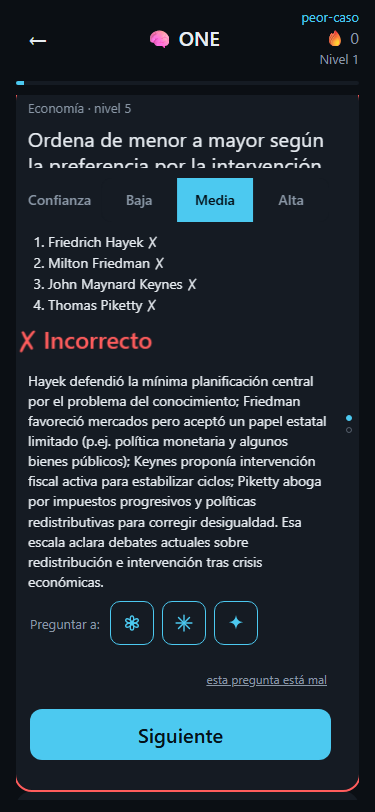
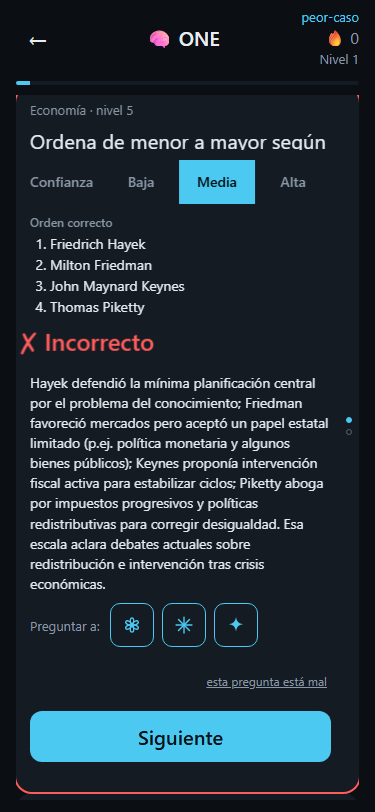
UI: ronda de corrección 1 de la Tarea 3 — jerarquía de cifras, orden correcto sin marcas confusas, botones apilados
- Tarjeta de cifras del resumen: Aciertos y XP como dos cifras destacadas
  (número grande + etiqueta pequeña debajo) en vez de dos líneas de texto
  planas; áreas con nombreArea() (nombres legibles) en vez de sus ids; todo
  centrado como un solo bloque.
- construirRespuestaCompacta (ordenar): rótulo "Orden correcto" encima de la
  lista; marca ✓/✗ por posición solo si el jugador acertó alguna, si falló
  las 4 se deja la lista limpia (marcar todo con ✗ sobre el propio orden
  correcto confundía, leía como si la lista estuviera mal). vf/test4/error
  sin cambios.
- Tarjeta final del resumen: "Otra partida"/"Inicio" apilados en vertical a
  ancho completo (antes en fila partían "Otra partida" en dos líneas).
- Docstring de construirTarjetaRespondida actualizado (ya no dice que el
  ancla "Preguntar a" la rellena otra tarea) y quitada la regla CSS muerta
  .preguntar-a:empty.

Claude-Session: https://claude.ai/code/session_01UVvhBTcCK6CYm6LEyJUvJk

diff --git a/app.js b/app.js
@@ -1360,7 +1360,11 @@ function construirTarjetaSinResponder(hueco) {
 
 /** Respuesta ya fija en su forma compacta (spec v0.1c §4.1 punto 4): vf una
  * línea; test4/error la fila correcta con ✓ y, si falló, la suya tachada
- * encima; ordenar la lista completa numerada con ✓/✗ por posición. */
+ * encima; ordenar la lista completa CORRECTA con un rótulo encima y ✓/✗ por
+ * posición SOLO si al menos una posición acertó (ronda de corrección 1: con
+ * TODO mal — p. ej. el orden invertido del todo — marcar cada línea con ✗
+ * sobre el propio orden correcto leía como "esto está mal", cuando es
+ * justo lo contrario; sin ninguna marca, el rótulo solo, se entiende). */
 function construirRespuestaCompacta(pregunta, hueco) {
   const contenedor = document.createElement('div');
   contenedor.className = 'respuesta-compacta';
@@ -1402,13 +1406,24 @@ function construirRespuestaCompacta(pregunta, hueco) {
       break;
     }
     case 'ordenar': {
+      const rotulo = document.createElement('p');
+      rotulo.className = 'respuesta-compacta-orden-rotulo';
+      rotulo.textContent = 'Orden correcto';
+      contenedor.appendChild(rotulo);
+
       const lista = document.createElement('ol');
       lista.className = 'respuesta-compacta-orden';
       const respuestaUsuario = Array.isArray(hueco.respuesta) ? hueco.respuesta : [];
+      // Si el jugador no acertó NI UNA posición, marcar cada línea con ✗ sobre
+      // el orden correcto confunde (lee como si la lista en sí estuviera mal).
+      // En ese caso se deja limpia, sin marcas: el rótulo de arriba ya dice
+      // que esto es lo correcto.
+      const algunaAcertada = respuestaUsuario.some((original, posicion) => original === posicion);
       pregunta.items.forEach((texto, posicion) => {
         const li = document.createElement('li');
-        const marca = respuestaUsuario[posicion] === posicion ? '✓' : '✗';
-        li.textContent = `${texto} ${marca}`;
+        li.textContent = algunaAcertada
+          ? `${texto} ${respuestaUsuario[posicion] === posicion ? '✓' : '✗'}`
+          : texto;
         lista.appendChild(li);
       });
       contenedor.appendChild(lista);
@@ -1665,11 +1680,11 @@ function construirBloqueFeedback(pregunta, hueco) {
 }
 
 /**
- * Tarjeta de un hueco ya respondido (spec v0.1c, interfaz para Task 3/repaso):
+ * Tarjeta de un hueco ya respondido (spec v0.1c, interfaz para el repaso):
  * cabecera, enunciado, confianza (activa, salvo soloLectura), respuesta
  * compacta + resumen a una línea (para tarjeta--compacta-1), feedback y, en la
- * zona de acción, el ancla "Preguntar a" (vacía: la rellena otra tarea) y,
- * salvo soloLectura, "esta pregunta está mal" + Siguiente.
+ * zona de acción, la fila "Preguntar a" (construirPreguntarA) y, salvo
+ * soloLectura, "esta pregunta está mal" + Siguiente.
  */
 function construirTarjetaRespondida(pregunta, hueco, { soloLectura = false } = {}) {
   const tarjeta = document.createElement('div');
@@ -1883,10 +1898,28 @@ function construirAccionesResumen() {
   return acciones;
 }
 
-/** Tarjeta 0 del resumen (spec v0.1c §6): cifras de la partida (aciertos, XP,
- * áreas) y, según haya o no algo que repasar, la pista de deslizar o el
+/** Una cifra destacada (spec v0.1c §6, ronda de corrección 1): número grande
+ * arriba, etiqueta pequeña debajo. `animarConteo` sigue animando solo el
+ * número (sin la etiqueta dentro del mismo texto, a diferencia de antes). */
+function construirCifraDestacada(etiquetaTexto) {
+  const cifra = document.createElement('div');
+  cifra.className = 'resumen-cifra';
+  const numero = document.createElement('p');
+  numero.className = 'resumen-cifra-numero';
+  const etiqueta = document.createElement('p');
+  etiqueta.className = 'resumen-cifra-etiqueta';
+  etiqueta.textContent = etiquetaTexto;
+  cifra.append(numero, etiqueta);
+  return { cifra, numero };
+}
+
+/** Tarjeta 0 del resumen (spec v0.1c §6): cifras de la partida (aciertos y XP
+ * como dos cifras destacadas, áreas en una línea pequeña con sus nombres
+ * legibles) y, según haya o no algo que repasar, la pista de deslizar o el
  * mensaje vacío con los botones directos (sin deslizar a ningún sitio, ya que
- * en ese caso esta es también la última tarjeta del mazo). */
+ * en ese caso esta es también la última tarjeta del mazo). Todo centrado como
+ * un solo bloque (ronda de corrección 1: antes eran dos líneas de texto
+ * planas, sin jerarquía, y las áreas salían con su id sin traducir). */
 function construirTarjetaCifras({ aciertos, totalPreguntas, xpTotal, areas }) {
   const tarjeta = document.createElement('div');
   tarjeta.className = 'tarjeta';
@@ -1897,15 +1930,14 @@ function construirTarjetaCifras({ aciertos, totalPreguntas, xpTotal, areas }) {
 
   const resultado = document.createElement('div');
   resultado.className = 'resumen-resultado';
-  const aciertosNodo = document.createElement('p');
-  aciertosNodo.className = 'resumen-resultado-linea';
-  const xpNodo = document.createElement('p');
-  xpNodo.className = 'resumen-resultado-linea';
-  resultado.append(aciertosNodo, xpNodo);
+  const { cifra: cifraAciertos, numero: numeroAciertos } = construirCifraDestacada('Aciertos');
+  const { cifra: cifraXp, numero: numeroXp } = construirCifraDestacada('XP ganado');
+  resultado.append(cifraAciertos, cifraXp);
 
   const areasNodo = document.createElement('p');
   areasNodo.className = 'resumen-areas-linea';
-  areasNodo.textContent = `Áreas: ${[...areas].join(', ') || '—'}`;
+  const nombresAreas = [...areas].map(nombreArea);
+  areasNodo.textContent = `Áreas: ${nombresAreas.join(', ') || '—'}`;
 
   const pieN = repasoPartida.length;
   const pie = document.createElement('p');
@@ -1922,8 +1954,8 @@ function construirTarjetaCifras({ aciertos, totalPreguntas, xpTotal, areas }) {
     tarjeta.appendChild(zonaAccion);
   }
 
-  animarConteo(aciertosNodo, 'Aciertos: ', aciertos, `/${totalPreguntas}`);
-  animarConteo(xpNodo, 'XP ganado: ', xpTotal);
+  animarConteo(numeroAciertos, '', aciertos, `/${totalPreguntas}`);
+  animarConteo(numeroXp, '', xpTotal);
 
   return tarjeta;
 }

diff --git a/estilos.css b/estilos.css
@@ -640,8 +640,6 @@ main#app {
   flex-wrap: wrap;
 }
 
-.preguntar-a:empty { display: none; }
-
 .preguntar-a-etiqueta {
   font-size: 13px;
   color: var(--texto-suave);
@@ -697,6 +695,16 @@ main#app {
 .respuesta-compacta-linea--tachada {
   color: var(--texto-suave);
   text-decoration: line-through;
+}
+
+/* Rótulo sobre la lista de "ordenar" (ronda de corrección 1): deja claro que
+   la lista de abajo es el orden CORRECTO incluso cuando no lleva ninguna
+   marca (todo mal, ver construirRespuestaCompacta). */
+.respuesta-compacta-orden-rotulo {
+  margin: 0;
+  font-size: 12px;
+  font-weight: 600;
+  color: var(--texto-suave);
 }
 
 .respuesta-compacta-orden {
@@ -1052,23 +1060,41 @@ main#app {
    aparte. Tarjeta 0 (resumen-cifras), tarjetas de repaso (reutilizan .tarjeta/
    .tarjeta-contenido de la partida vía construirTarjetaRespondida) y la
    tarjeta final (.tarjeta-cierre, ya existente para el cierre de la partida). */
+/* Aciertos y XP como dos cifras destacadas, una junto a la otra, centradas
+   (ronda de corrección 1: antes dos líneas de texto planas sin jerarquía). */
 .resumen-resultado {
   display: flex;
-  align-items: baseline;
-  flex-wrap: wrap;
-  gap: 10px;
+  justify-content: center;
+  gap: 36px;
 }
 
-.resumen-resultado-linea {
+.resumen-cifra {
+  display: flex;
+  flex-direction: column;
+  align-items: center;
+  gap: 2px;
+}
+
+.resumen-cifra-numero {
   margin: 0;
-  font-size: 22px;
-  font-weight: 600;
+  font-size: 34px;
+  font-weight: 700;
+  line-height: 1.1;
 }
 
+.resumen-cifra-etiqueta {
+  margin: 0;
+  font-size: 12px;
+  color: var(--texto-suave);
+}
+
+/* Nombres de área legibles (nombreArea), no sus ids (ronda de corrección 1).
+   Centrada como el resto del bloque de cifras. */
 .resumen-areas-linea {
   margin: 4px 0 0;
   font-size: 13px;
   color: var(--texto-suave);
+  text-align: center;
 }
 
 /* Pie de la tarjeta de cifras: la pista de deslizar para repasar (permanente,
@@ -1078,16 +1104,21 @@ main#app {
   margin: 4px 0 0;
   font-size: 13px;
   color: var(--texto-suave);
+  text-align: center;
 }
 
+/* En columna, no en fila (ronda de corrección 1): "Otra partida" partía en
+   dos líneas junto a "Inicio" en una sola, con el ancho a medias que deja la
+   columna de puntos del mazo. Apilados a ancho completo ninguno de los dos
+   corre riesgo de partirse, igual que ya hacía .mazo-cierre-acciones. */
 .resumen-acciones {
   display: flex;
-  gap: 12px;
+  flex-direction: column;
+  gap: 10px;
   width: 100%;
 }
 
 .resumen-acciones .boton {
-  flex: 1;
   min-height: 56px;
 }
 
